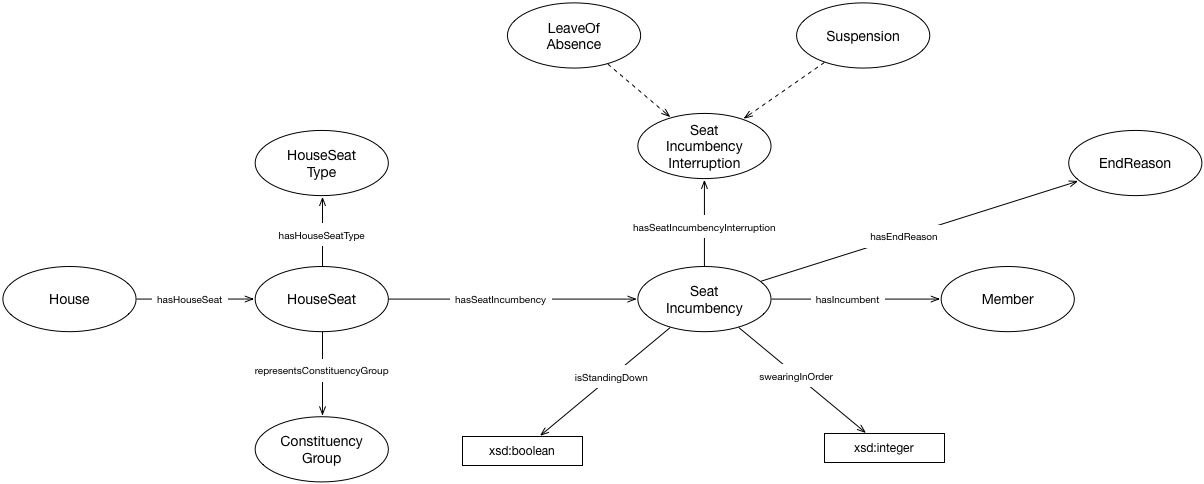
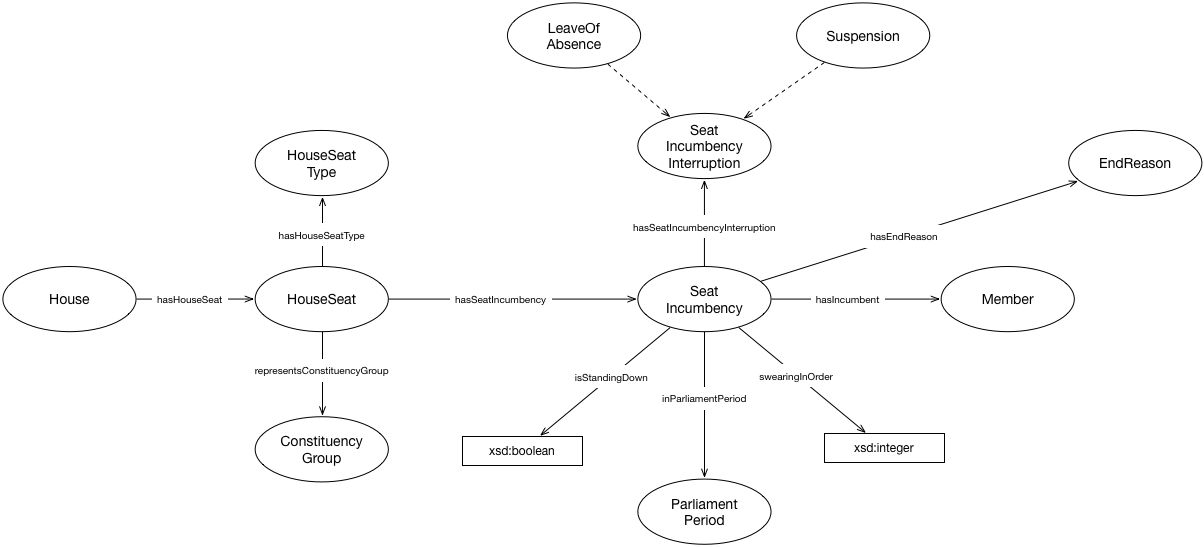
linked a seat incumbency to a parliament period

diff --git a/house-membership/house-membership-ontology.html b/house-membership/house-membership-ontology.html
@@ -21,8 +21,14 @@
 		<div id="toc"><h2>Table of Content</h2><ol><li><a href="#classes">Classes</a></li><li><a href="#objectproperties">Object Properties</a></li><li><a href="#dataproperties">Data Properties</a></li><li><a href="#namespacedeclarations">Namespace Declarations</a></li></ol></div>
 
 		<p><img src="https://raw.githubusercontent.com/ukpds/ontologies/master/house-membership/house-membership.png" width="950" /></p>
-	
-	
-	<div id="classes"><h2>Classes</h2><ul class="hlist"><li><a href="#d4e164" title="http://parliament.uk/ontologies/house-membership/ConstituencyGroup">ConstituencyGroup</a></li><li><a href="#d4e176" title="http://parliament.uk/ontologies/house-membership/EndReason">EndReason</a></li><li><a href="#d4e187" title="http://parliament.uk/ontologies/house-membership/House">House</a></li><li><a href="#d4e198" title="http://parliament.uk/ontologies/house-membership/HouseSeat">HouseSeat</a></li><li><a href="#d4e210" title="http://parliament.uk/ontologies/house-membership/HouseSeatType">HouseSeatType</a></li><li><a href="#d4e221" title="http://parliament.uk/ontologies/house-membership/LeaveOfAbsence">LeaveOfAbsence</a></li><li><a href="#d4e234" title="http://parliament.uk/ontologies/house-membership/Member">Member</a></li><li><a href="#d4e246" title="http://parliament.uk/ontologies/house-membership/SeatIncumbency">SeatIncumbency</a></li><li><a href="#d4e257" title="http://parliament.uk/ontologies/house-membership/SeatIncumbencyInterruption">SeatIncumbencyInterruption</a></li><li><a href="#d4e268" title="http://parliament.uk/ontologies/house-membership/Suspension">Suspension</a></li></ul><div id="d4e164" class="entity"><a name="http://parliament.uk/ontologies/house-membership/ConstituencyGroup"></a><h3>ConstituencyGroup<sup title="class" class="type-c">c</sup><span class="backlink"> back to <a href="#toc">ToC</a> or <a href="#classes">Class ToC</a></span></h3><p><strong>IRI:</strong> http://parliament.uk/ontologies/house-membership/ConstituencyGroup</p><div class="comment"><span class="markdown">A group of people represented by the winner of an election. Includes people other than those eligible to vote (e.g. children, prisoners).</span></div><dl class="description"><dt>is in range of</dt><dd><a href="#d4e114" title="http://parliament.uk/ontologies/house-membership/representsConstituencyGroup">representsConstituencyGroup</a><sup title="object property" class="type-op">op</sup></dd></dl></div><div id="d4e176" class="entity"><a name="http://parliament.uk/ontologies/house-membership/EndReason"></a><h3>EndReason<sup title="class" class="type-c">c</sup><span class="backlink"> back to <a href="#toc">ToC</a> or <a href="#classes">Class ToC</a></span></h3><p><strong>IRI:</strong> http://parliament.uk/ontologies/house-membership/EndReason</p><div class="comment"><span class="markdown">A reason for the ending of a seat incumbency.</span></div><dl class="description"><dt>is in range of</dt><dd><a href="#d4e22" title="http://parliament.uk/ontologies/house-membership/hasEndReason">hasEndReason</a><sup title="object property" class="type-op">op</sup></dd></dl></div><div id="d4e187" class="entity"><a name="http://parliament.uk/ontologies/house-membership/House"></a><h3>House<sup title="class" class="type-c">c</sup><span class="backlink"> back to <a href="#toc">ToC</a> or <a href="#classes">Class ToC</a></span></h3><p><strong>IRI:</strong> http://parliament.uk/ontologies/house-membership/House</p><div class="comment"><span class="markdown">A parliamentary house e.g. the House of Lords.</span></div><dl class="description"><dt>is in domain of</dt><dd><a href="#d4e38" title="http://parliament.uk/ontologies/house-membership/hasHouseSeat">hasHouseSeat</a><sup title="object property" class="type-op">op</sup></dd></dl></div><div id="d4e198" class="entity"><a name="http://parliament.uk/ontologies/house-membership/HouseSeat"></a><h3>HouseSeat<sup title="class" class="type-c">c</sup><span class="backlink"> back to <a href="#toc">ToC</a> or <a href="#classes">Class ToC</a></span></h3><p><strong>IRI:</strong> http://parliament.uk/ontologies/house-membership/HouseSeat</p><div class="comment"><span class="markdown">A seat in a house. A place reserved for a member in a house. This does not equate to a constituency. A seat might be associated with a constituency (in the House of Commons) but might be allocated to a bishop or inherited by an hereditary peer.</span></div><dl class="description"><dt>is in domain of</dt><dd><a href="#d4e53" title="http://parliament.uk/ontologies/house-membership/hasHouseSeatType">hasHouseSeatType</a><sup title="object property" class="type-op">op</sup>, <a href="#d4e84" title="http://parliament.uk/ontologies/house-membership/hasSeatIncumbency">hasSeatIncumbency</a><sup title="object property" class="type-op">op</sup>, <a href="#d4e114" title="http://parliament.uk/ontologies/house-membership/representsConstituencyGroup">representsConstituencyGroup</a><sup title="object property" class="type-op">op</sup></dd><dt>is in range of</dt><dd><a href="#d4e38" title="http://parliament.uk/ontologies/house-membership/hasHouseSeat">hasHouseSeat</a><sup title="object property" class="type-op">op</sup></dd></dl></div><div id="d4e210" class="entity"><a name="http://parliament.uk/ontologies/house-membership/HouseSeatType"></a><h3>HouseSeatType<sup title="class" class="type-c">c</sup><span class="backlink"> back to <a href="#toc">ToC</a> or <a href="#classes">Class ToC</a></span></h3><p><strong>IRI:</strong> http://parliament.uk/ontologies/house-membership/HouseSeatType</p><div class="comment"><span class="markdown">A house seat type. This includes first past the post elected in the Commons. In the Lords this includes hereditary peers, life peers, excepted hereditary peers and Lords spiritual (made up of named diocesan and long serving English diocesan bishops).</span></div><dl class="description"><dt>is in range of</dt><dd><a href="#d4e53" title="http://parliament.uk/ontologies/house-membership/hasHouseSeatType">hasHouseSeatType</a><sup title="object property" class="type-op">op</sup></dd></dl></div><div id="d4e221" class="entity"><a name="http://parliament.uk/ontologies/house-membership/LeaveOfAbsence"></a><h3>LeaveOfAbsence<sup title="class" class="type-c">c</sup><span class="backlink"> back to <a href="#toc">ToC</a> or <a href="#classes">Class ToC</a></span></h3><p><strong>IRI:</strong> http://parliament.uk/ontologies/house-membership/LeaveOfAbsence</p><div class="comment"><span class="markdown">A leave of absence. A period during which a member of the House of Lords does not attend sittings.</span></div><dl class="description"><dt>has super-classes</dt><dd><a href="#d4e257" title="http://parliament.uk/ontologies/house-membership/SeatIncumbencyInterruption">SeatIncumbencyInterruption</a><sup title="class" class="type-c">c</sup></dd></dl></div><div id="d4e234" class="entity"><a name="http://parliament.uk/ontologies/house-membership/Member"></a><h3>Member<sup title="class" class="type-c">c</sup><span class="backlink"> back to <a href="#toc">ToC</a> or <a href="#classes">Class ToC</a></span></h3><p><strong>IRI:</strong> http://parliament.uk/ontologies/house-membership/Member</p><div class="comment"><span class="markdown">A current or former member of a house.</span></div><dl class="description"><dt>is in range of</dt><dd><a href="#d4e68" title="http://parliament.uk/ontologies/house-membership/hasIncumbent">hasIncumbent</a><sup title="object property" class="type-op">op</sup></dd></dl></div><div id="d4e246" class="entity"><a name="http://parliament.uk/ontologies/house-membership/SeatIncumbency"></a><h3>SeatIncumbency<sup title="class" class="type-c">c</sup><span class="backlink"> back to <a href="#toc">ToC</a> or <a href="#classes">Class ToC</a></span></h3><p><strong>IRI:</strong> http://parliament.uk/ontologies/house-membership/SeatIncumbency</p><div class="comment"><span class="markdown">A person (member) occupying a seat in a house for a period of time.</span></div><dl class="description"><dt>is in domain of</dt><dd><a href="#d4e22" title="http://parliament.uk/ontologies/house-membership/hasEndReason">hasEndReason</a><sup title="object property" class="type-op">op</sup>, <a href="#d4e68" title="http://parliament.uk/ontologies/house-membership/hasIncumbent">hasIncumbent</a><sup title="object property" class="type-op">op</sup>, <a href="#d4e99" title="http://parliament.uk/ontologies/house-membership/hasSeatIncumbencyInterruption">hasSeatIncumbencyInterruption</a><sup title="object property" class="type-op">op</sup>, <a href="#d4e132" title="http://parliament.uk/ontologies/house-membership/isStandingDown">isStandingDown</a><sup title="data property" class="type-dp">dp</sup>, <a href="#d4e147" title="http://parliament.uk/ontologies/house-membership/swearingInOrder">swearingInOrder</a><sup title="data property" class="type-dp">dp</sup></dd><dt>is in range of</dt><dd><a href="#d4e84" title="http://parliament.uk/ontologies/house-membership/hasSeatIncumbency">hasSeatIncumbency</a><sup title="object property" class="type-op">op</sup></dd></dl></div><div id="d4e257" class="entity"><a name="http://parliament.uk/ontologies/house-membership/SeatIncumbencyInterruption"></a><h3>SeatIncumbencyInterruption<sup title="class" class="type-c">c</sup><span class="backlink"> back to <a href="#toc">ToC</a> or <a href="#classes">Class ToC</a></span></h3><p><strong>IRI:</strong> http://parliament.uk/ontologies/house-membership/SeatIncumbencyInterruption</p><div class="comment"><span class="markdown">An interruption to a seat incumbency for a limited period of time for reasons such as suspension, leave of absence etc.</span></div><dl class="description"><dt>has sub-classes</dt><dd><a href="#d4e221" title="http://parliament.uk/ontologies/house-membership/LeaveOfAbsence">LeaveOfAbsence</a><sup title="class" class="type-c">c</sup>, <a href="#d4e268" title="http://parliament.uk/ontologies/house-membership/Suspension">Suspension</a><sup title="class" class="type-c">c</sup></dd><dt>is in range of</dt><dd><a href="#d4e99" title="http://parliament.uk/ontologies/house-membership/hasSeatIncumbencyInterruption">hasSeatIncumbencyInterruption</a><sup title="object property" class="type-op">op</sup></dd></dl></div><div id="d4e268" class="entity"><a name="http://parliament.uk/ontologies/house-membership/Suspension"></a><h3>Suspension<sup title="class" class="type-c">c</sup><span class="backlink"> back to <a href="#toc">ToC</a> or <a href="#classes">Class ToC</a></span></h3><p><strong>IRI:</strong> http://parliament.uk/ontologies/house-membership/Suspension</p><div class="comment"><span class="markdown">A suspension. A short period of exclusion of a member during which a member cannot sit in a house. They remain a member in all other senses.</span></div><dl class="description"><dt>has super-classes</dt><dd><a href="#d4e257" title="http://parliament.uk/ontologies/house-membership/SeatIncumbencyInterruption">SeatIncumbencyInterruption</a><sup title="class" class="type-c">c</sup></dd></dl></div></div><div id="objectproperties"><h2>Object Properties</h2><ul class="hlist"><li><a href="#d4e22" title="http://parliament.uk/ontologies/house-membership/hasEndReason">hasEndReason</a></li><li><a href="#d4e38" title="http://parliament.uk/ontologies/house-membership/hasHouseSeat">hasHouseSeat</a></li><li><a href="#d4e53" title="http://parliament.uk/ontologies/house-membership/hasHouseSeatType">hasHouseSeatType</a></li><li><a href="#d4e68" title="http://parliament.uk/ontologies/house-membership/hasIncumbent">hasIncumbent</a></li><li><a href="#d4e84" title="http://parliament.uk/ontologies/house-membership/hasSeatIncumbency">hasSeatIncumbency</a></li><li><a href="#d4e99" title="http://parliament.uk/ontologies/house-membership/hasSeatIncumbencyInterruption">hasSeatIncumbencyInterruption</a></li><li><a href="#d4e114" title="http://parliament.uk/ontologies/house-membership/representsConstituencyGroup">representsConstituencyGroup</a></li></ul><div id="d4e22" class="entity"><a name="http://parliament.uk/ontologies/house-membership/hasEndReason"></a><h3>hasEndReason<sup title="object property" class="type-op">op</sup><span class="backlink"> back to <a href="#toc">ToC</a> or <a href="#objectproperties">Object Property ToC</a></span></h3><p><strong>IRI:</strong> http://parliament.uk/ontologies/house-membership/hasEndReason</p><div class="comment"><span class="markdown">Relates a seat incumbency to an end reason.</span></div><div class="description"><dl><dt>has domain</dt><dd><a href="#d4e246" title="http://parliament.uk/ontologies/house-membership/SeatIncumbency">SeatIncumbency</a><sup title="class" class="type-c">c</sup></dd><dt>has range</dt><dd><a href="#d4e176" title="http://parliament.uk/ontologies/house-membership/EndReason">EndReason</a><sup title="class" class="type-c">c</sup></dd></dl></div></div><div id="d4e38" class="entity"><a name="http://parliament.uk/ontologies/house-membership/hasHouseSeat"></a><h3>hasHouseSeat<sup title="object property" class="type-op">op</sup><span class="backlink"> back to <a href="#toc">ToC</a> or <a href="#objectproperties">Object Property ToC</a></span></h3><p><strong>IRI:</strong> http://parliament.uk/ontologies/house-membership/hasHouseSeat</p><div class="comment"><span class="markdown">Relates a house to its seats.</span></div><div class="description"><dl><dt>has domain</dt><dd><a href="#d4e187" title="http://parliament.uk/ontologies/house-membership/House">House</a><sup title="class" class="type-c">c</sup></dd><dt>has range</dt><dd><a href="#d4e198" title="http://parliament.uk/ontologies/house-membership/HouseSeat">HouseSeat</a><sup title="class" class="type-c">c</sup></dd></dl></div></div><div id="d4e53" class="entity"><a name="http://parliament.uk/ontologies/house-membership/hasHouseSeatType"></a><h3>hasHouseSeatType<sup title="object property" class="type-op">op</sup><span class="backlink"> back to <a href="#toc">ToC</a> or <a href="#objectproperties">Object Property ToC</a></span></h3><p><strong>IRI:</strong> http://parliament.uk/ontologies/house-membership/hasHouseSeatType</p><div class="comment"><span class="markdown">Relates a house seat to a house seat type.</span></div><div class="description"><dl><dt>has domain</dt><dd><a href="#d4e198" title="http://parliament.uk/ontologies/house-membership/HouseSeat">HouseSeat</a><sup title="class" class="type-c">c</sup></dd><dt>has range</dt><dd><a href="#d4e210" title="http://parliament.uk/ontologies/house-membership/HouseSeatType">HouseSeatType</a><sup title="class" class="type-c">c</sup></dd></dl></div></div><div id="d4e68" class="entity"><a name="http://parliament.uk/ontologies/house-membership/hasIncumbent"></a><h3>hasIncumbent<sup title="object property" class="type-op">op</sup><span class="backlink"> back to <a href="#toc">ToC</a> or <a href="#objectproperties">Object Property ToC</a></span></h3><p><strong>IRI:</strong> http://parliament.uk/ontologies/house-membership/hasIncumbent</p><div class="comment"><span class="markdown">Relates a seat incumbency to a member.</span></div><div class="description"><dl><dt>has domain</dt><dd><a href="#d4e246" title="http://parliament.uk/ontologies/house-membership/SeatIncumbency">SeatIncumbency</a><sup title="class" class="type-c">c</sup></dd><dt>has range</dt><dd><a href="#d4e234" title="http://parliament.uk/ontologies/house-membership/Member">Member</a><sup title="class" class="type-c">c</sup></dd></dl></div></div><div id="d4e84" class="entity"><a name="http://parliament.uk/ontologies/house-membership/hasSeatIncumbency"></a><h3>hasSeatIncumbency<sup title="object property" class="type-op">op</sup><span class="backlink"> back to <a href="#toc">ToC</a> or <a href="#objectproperties">Object Property ToC</a></span></h3><p><strong>IRI:</strong> http://parliament.uk/ontologies/house-membership/hasSeatIncumbency</p><div class="comment"><span class="markdown">Relates a house seat to a seat incumbency.</span></div><div class="description"><dl><dt>has domain</dt><dd><a href="#d4e198" title="http://parliament.uk/ontologies/house-membership/HouseSeat">HouseSeat</a><sup title="class" class="type-c">c</sup></dd><dt>has range</dt><dd><a href="#d4e246" title="http://parliament.uk/ontologies/house-membership/SeatIncumbency">SeatIncumbency</a><sup title="class" class="type-c">c</sup></dd></dl></div></div><div id="d4e99" class="entity"><a name="http://parliament.uk/ontologies/house-membership/hasSeatIncumbencyInterruption"></a><h3>hasSeatIncumbencyInterruption<sup title="object property" class="type-op">op</sup><span class="backlink"> back to <a href="#toc">ToC</a> or <a href="#objectproperties">Object Property ToC</a></span></h3><p><strong>IRI:</strong> http://parliament.uk/ontologies/house-membership/hasSeatIncumbencyInterruption</p><div class="comment"><span class="markdown">Relates a seat incumbency an interruption.</span></div><div class="description"><dl><dt>has domain</dt><dd><a href="#d4e246" title="http://parliament.uk/ontologies/house-membership/SeatIncumbency">SeatIncumbency</a><sup title="class" class="type-c">c</sup></dd><dt>has range</dt><dd><a href="#d4e257" title="http://parliament.uk/ontologies/house-membership/SeatIncumbencyInterruption">SeatIncumbencyInterruption</a><sup title="class" class="type-c">c</sup></dd></dl></div></div><div id="d4e114" class="entity"><a name="http://parliament.uk/ontologies/house-membership/representsConstituencyGroup"></a><h3>representsConstituencyGroup<sup title="object property" class="type-op">op</sup><span class="backlink"> back to <a href="#toc">ToC</a> or <a href="#objectproperties">Object Property ToC</a></span></h3><p><strong>IRI:</strong> http://parliament.uk/ontologies/house-membership/representsConstituencyGroup</p><div class="comment"><span class="markdown">Relates a house seat to a constituency group.</span></div><div class="description"><dl><dt>has domain</dt><dd><a href="#d4e198" title="http://parliament.uk/ontologies/house-membership/HouseSeat">HouseSeat</a><sup title="class" class="type-c">c</sup></dd><dt>has range</dt><dd><a href="#d4e164" title="http://parliament.uk/ontologies/house-membership/ConstituencyGroup">ConstituencyGroup</a><sup title="class" class="type-c">c</sup></dd></dl></div></div></div><div id="dataproperties"><h2>Data Properties</h2><ul class="hlist"><li><a href="#d4e132" title="http://parliament.uk/ontologies/house-membership/isStandingDown">isStandingDown</a></li><li><a href="#d4e147" title="http://parliament.uk/ontologies/house-membership/swearingInOrder">swearingInOrder</a></li></ul><div id="d4e132" class="entity"><a name="http://parliament.uk/ontologies/house-membership/isStandingDown"></a><h3>isStandingDown<sup title="data property" class="type-dp">dp</sup><span class="backlink"> back to <a href="#toc">ToC</a> or <a href="#dataproperties">Data Property ToC</a></span></h3><p><strong>IRI:</strong> http://parliament.uk/ontologies/house-membership/isStandingDown</p><div class="comment"><span class="markdown">Denotes that a Commons member intends to stand down at the next election.</span></div><div class="description"><dl><dt>has domain</dt><dd><a href="#d4e246" title="http://parliament.uk/ontologies/house-membership/SeatIncumbency">SeatIncumbency</a><sup title="class" class="type-c">c</sup></dd><dt>has range</dt><dd><span class="dotted" title="http://www.w3.org/2001/XMLSchema#boolean">boolean</span></dd></dl></div></div><div id="d4e147" class="entity"><a name="http://parliament.uk/ontologies/house-membership/swearingInOrder"></a><h3>swearingInOrder<sup title="data property" class="type-dp">dp</sup><span class="backlink"> back to <a href="#toc">ToC</a> or <a href="#dataproperties">Data Property ToC</a></span></h3><p><strong>IRI:</strong> http://parliament.uk/ontologies/house-membership/swearingInOrder</p><div class="comment"><span class="markdown">The order in which members take the oath (religious) or affirmation (secular) at the beginning of a new parliament or following a by-election. Swearing in order denotes the seniority of a member.</span></div><div class="description"><dl><dt>has domain</dt><dd><a href="#d4e246" title="http://parliament.uk/ontologies/house-membership/SeatIncumbency">SeatIncumbency</a><sup title="class" class="type-c">c</sup></dd><dt>has range</dt><dd><span class="dotted" title="http://www.w3.org/2001/XMLSchema#integer">integer</span></dd></dl></div></div></div><div id="namespacedeclarations"><h2>Namespace Declarations <span class="backlink"> back to <a href="#toc">ToC</a></span></h2><dl><dt><em>default namespace</em></dt><dd>http://parliament.uk/ontologies/house-membership/</dd><dt>owl</dt><dd>http://www.w3.org/2002/07/owl#</dd><dt>rdf</dt><dd>http://www.w3.org/1999/02/22-rdf-syntax-ns#</dd><dt>rdfs</dt><dd>http://www.w3.org/2000/01/rdf-schema#</dd><dt>terms</dt><dd>http://purl.org/dc/terms/</dd><dt>xsd</dt><dd>http://www.w3.org/2001/XMLSchema#</dd></dl></div><p class="endnote">This HTML document was obtained by processing the OWL ontology source code through <a href="http://www.essepuntato.it/lode">LODE</a>, <em>Live OWL Documentation Environment</em>, developed by <a href="http://www.essepuntato.it">Silvio Peroni</a>.</p></body></html>
+
+
+
+
+
+
+
+
+<div id="classes"><h2>Classes</h2><ul class="hlist"><li><a href="#d4e180" title="http://parliament.uk/ontologies/house-membership/ConstituencyGroup">ConstituencyGroup</a></li><li><a href="#d4e191" title="http://parliament.uk/ontologies/house-membership/EndReason">EndReason</a></li><li><a href="#d4e202" title="http://parliament.uk/ontologies/house-membership/House">House</a></li><li><a href="#d4e214" title="http://parliament.uk/ontologies/house-membership/HouseSeat">HouseSeat</a></li><li><a href="#d4e225" title="http://parliament.uk/ontologies/house-membership/HouseSeatType">HouseSeatType</a></li><li><a href="#d4e236" title="http://parliament.uk/ontologies/house-membership/LeaveOfAbsence">LeaveOfAbsence</a></li><li><a href="#d4e250" title="http://parliament.uk/ontologies/house-membership/Member">Member</a></li><li><a href="#d4e261" title="http://parliament.uk/ontologies/house-membership/ParliamentPeriod">ParliamentPeriod</a></li><li><a href="#d4e272" title="http://parliament.uk/ontologies/house-membership/SeatIncumbency">SeatIncumbency</a></li><li><a href="#d4e284" title="http://parliament.uk/ontologies/house-membership/SeatIncumbencyInterruption">SeatIncumbencyInterruption</a></li><li><a href="#d4e295" title="http://parliament.uk/ontologies/house-membership/Suspension">Suspension</a></li></ul><div id="d4e180" class="entity"><a name="http://parliament.uk/ontologies/house-membership/ConstituencyGroup"></a><h3>ConstituencyGroup<sup title="class" class="type-c">c</sup><span class="backlink"> back to <a href="#toc">ToC</a> or <a href="#classes">Class ToC</a></span></h3><p><strong>IRI:</strong> http://parliament.uk/ontologies/house-membership/ConstituencyGroup</p><div class="comment"><span class="markdown">A group of people represented by the winner of an election. Includes people other than those eligible to vote (e.g. children, prisoners).</span></div><dl class="description"><dt>is in range of</dt><dd><a href="#d4e130" title="http://parliament.uk/ontologies/house-membership/representsConstituencyGroup">representsConstituencyGroup</a><sup title="object property" class="type-op">op</sup></dd></dl></div><div id="d4e191" class="entity"><a name="http://parliament.uk/ontologies/house-membership/EndReason"></a><h3>EndReason<sup title="class" class="type-c">c</sup><span class="backlink"> back to <a href="#toc">ToC</a> or <a href="#classes">Class ToC</a></span></h3><p><strong>IRI:</strong> http://parliament.uk/ontologies/house-membership/EndReason</p><div class="comment"><span class="markdown">A reason for the ending of a seat incumbency.</span></div><dl class="description"><dt>is in range of</dt><dd><a href="#d4e22" title="http://parliament.uk/ontologies/house-membership/hasEndReason">hasEndReason</a><sup title="object property" class="type-op">op</sup></dd></dl></div><div id="d4e202" class="entity"><a name="http://parliament.uk/ontologies/house-membership/House"></a><h3>House<sup title="class" class="type-c">c</sup><span class="backlink"> back to <a href="#toc">ToC</a> or <a href="#classes">Class ToC</a></span></h3><p><strong>IRI:</strong> http://parliament.uk/ontologies/house-membership/House</p><div class="comment"><span class="markdown">A parliamentary house e.g. the House of Lords.</span></div><dl class="description"><dt>is in domain of</dt><dd><a href="#d4e38" title="http://parliament.uk/ontologies/house-membership/hasHouseSeat">hasHouseSeat</a><sup title="object property" class="type-op">op</sup></dd></dl></div><div id="d4e214" class="entity"><a name="http://parliament.uk/ontologies/house-membership/HouseSeat"></a><h3>HouseSeat<sup title="class" class="type-c">c</sup><span class="backlink"> back to <a href="#toc">ToC</a> or <a href="#classes">Class ToC</a></span></h3><p><strong>IRI:</strong> http://parliament.uk/ontologies/house-membership/HouseSeat</p><div class="comment"><span class="markdown">A seat in a house. A place reserved for a member in a house. This does not equate to a constituency. A seat might be associated with a constituency (in the House of Commons) but might be allocated to a bishop or inherited by an hereditary peer.</span></div><dl class="description"><dt>is in domain of</dt><dd><a href="#d4e53" title="http://parliament.uk/ontologies/house-membership/hasHouseSeatType">hasHouseSeatType</a><sup title="object property" class="type-op">op</sup>, <a href="#d4e84" title="http://parliament.uk/ontologies/house-membership/hasSeatIncumbency">hasSeatIncumbency</a><sup title="object property" class="type-op">op</sup>, <a href="#d4e130" title="http://parliament.uk/ontologies/house-membership/representsConstituencyGroup">representsConstituencyGroup</a><sup title="object property" class="type-op">op</sup></dd><dt>is in range of</dt><dd><a href="#d4e38" title="http://parliament.uk/ontologies/house-membership/hasHouseSeat">hasHouseSeat</a><sup title="object property" class="type-op">op</sup></dd></dl></div><div id="d4e225" class="entity"><a name="http://parliament.uk/ontologies/house-membership/HouseSeatType"></a><h3>HouseSeatType<sup title="class" class="type-c">c</sup><span class="backlink"> back to <a href="#toc">ToC</a> or <a href="#classes">Class ToC</a></span></h3><p><strong>IRI:</strong> http://parliament.uk/ontologies/house-membership/HouseSeatType</p><div class="comment"><span class="markdown">A house seat type. This includes first past the post elected in the Commons. In the Lords this includes hereditary peers, life peers, excepted hereditary peers and Lords spiritual (made up of named diocesan and long serving English diocesan bishops).</span></div><dl class="description"><dt>is in range of</dt><dd><a href="#d4e53" title="http://parliament.uk/ontologies/house-membership/hasHouseSeatType">hasHouseSeatType</a><sup title="object property" class="type-op">op</sup></dd></dl></div><div id="d4e236" class="entity"><a name="http://parliament.uk/ontologies/house-membership/LeaveOfAbsence"></a><h3>LeaveOfAbsence<sup title="class" class="type-c">c</sup><span class="backlink"> back to <a href="#toc">ToC</a> or <a href="#classes">Class ToC</a></span></h3><p><strong>IRI:</strong> http://parliament.uk/ontologies/house-membership/LeaveOfAbsence</p><div class="comment"><span class="markdown">A leave of absence. A period during which a member of the House of Lords does not attend sittings.</span></div><dl class="description"><dt>has super-classes</dt><dd><a href="#d4e284" title="http://parliament.uk/ontologies/house-membership/SeatIncumbencyInterruption">SeatIncumbencyInterruption</a><sup title="class" class="type-c">c</sup></dd></dl></div><div id="d4e250" class="entity"><a name="http://parliament.uk/ontologies/house-membership/Member"></a><h3>Member<sup title="class" class="type-c">c</sup><span class="backlink"> back to <a href="#toc">ToC</a> or <a href="#classes">Class ToC</a></span></h3><p><strong>IRI:</strong> http://parliament.uk/ontologies/house-membership/Member</p><div class="comment"><span class="markdown">A current or former member of a house.</span></div><dl class="description"><dt>is in range of</dt><dd><a href="#d4e68" title="http://parliament.uk/ontologies/house-membership/hasIncumbent">hasIncumbent</a><sup title="object property" class="type-op">op</sup></dd></dl></div><div id="d4e261" class="entity"><a name="http://parliament.uk/ontologies/house-membership/ParliamentPeriod"></a><h3>ParliamentPeriod<sup title="class" class="type-c">c</sup><span class="backlink"> back to <a href="#toc">ToC</a> or <a href="#classes">Class ToC</a></span></h3><p><strong>IRI:</strong> http://parliament.uk/ontologies/house-membership/ParliamentPeriod</p><div class="comment"><span class="markdown">The period of Parliamentary time between the first state opening following a general election and dissolution.</span></div><dl class="description"><dt>is in range of</dt><dd><a href="#d4e114" title="http://parliament.uk/ontologies/house-membership/inParliamentPeriod">inParliamentPeriod</a><sup title="object property" class="type-op">op</sup></dd></dl></div><div id="d4e272" class="entity"><a name="http://parliament.uk/ontologies/house-membership/SeatIncumbency"></a><h3>SeatIncumbency<sup title="class" class="type-c">c</sup><span class="backlink"> back to <a href="#toc">ToC</a> or <a href="#classes">Class ToC</a></span></h3><p><strong>IRI:</strong> http://parliament.uk/ontologies/house-membership/SeatIncumbency</p><div class="comment"><span class="markdown">A person (member) occupying a seat in a house for a period of time.</span></div><dl class="description"><dt>is in domain of</dt><dd><a href="#d4e22" title="http://parliament.uk/ontologies/house-membership/hasEndReason">hasEndReason</a><sup title="object property" class="type-op">op</sup>, <a href="#d4e68" title="http://parliament.uk/ontologies/house-membership/hasIncumbent">hasIncumbent</a><sup title="object property" class="type-op">op</sup>, <a href="#d4e99" title="http://parliament.uk/ontologies/house-membership/hasSeatIncumbencyInterruption">hasSeatIncumbencyInterruption</a><sup title="object property" class="type-op">op</sup>, <a href="#d4e114" title="http://parliament.uk/ontologies/house-membership/inParliamentPeriod">inParliamentPeriod</a><sup title="object property" class="type-op">op</sup>, <a href="#d4e147" title="http://parliament.uk/ontologies/house-membership/isStandingDown">isStandingDown</a><sup title="data property" class="type-dp">dp</sup>, <a href="#d4e162" title="http://parliament.uk/ontologies/house-membership/swearingInOrder">swearingInOrder</a><sup title="data property" class="type-dp">dp</sup></dd><dt>is in range of</dt><dd><a href="#d4e84" title="http://parliament.uk/ontologies/house-membership/hasSeatIncumbency">hasSeatIncumbency</a><sup title="object property" class="type-op">op</sup></dd></dl></div><div id="d4e284" class="entity"><a name="http://parliament.uk/ontologies/house-membership/SeatIncumbencyInterruption"></a><h3>SeatIncumbencyInterruption<sup title="class" class="type-c">c</sup><span class="backlink"> back to <a href="#toc">ToC</a> or <a href="#classes">Class ToC</a></span></h3><p><strong>IRI:</strong> http://parliament.uk/ontologies/house-membership/SeatIncumbencyInterruption</p><div class="comment"><span class="markdown">An interruption to a seat incumbency for a limited period of time for reasons such as suspension, leave of absence etc.</span></div><dl class="description"><dt>has sub-classes</dt><dd><a href="#d4e236" title="http://parliament.uk/ontologies/house-membership/LeaveOfAbsence">LeaveOfAbsence</a><sup title="class" class="type-c">c</sup>, <a href="#d4e295" title="http://parliament.uk/ontologies/house-membership/Suspension">Suspension</a><sup title="class" class="type-c">c</sup></dd><dt>is in range of</dt><dd><a href="#d4e99" title="http://parliament.uk/ontologies/house-membership/hasSeatIncumbencyInterruption">hasSeatIncumbencyInterruption</a><sup title="object property" class="type-op">op</sup></dd></dl></div><div id="d4e295" class="entity"><a name="http://parliament.uk/ontologies/house-membership/Suspension"></a><h3>Suspension<sup title="class" class="type-c">c</sup><span class="backlink"> back to <a href="#toc">ToC</a> or <a href="#classes">Class ToC</a></span></h3><p><strong>IRI:</strong> http://parliament.uk/ontologies/house-membership/Suspension</p><div class="comment"><span class="markdown">A suspension. A short period of exclusion of a member during which a member cannot sit in a house. They remain a member in all other senses.</span></div><dl class="description"><dt>has super-classes</dt><dd><a href="#d4e284" title="http://parliament.uk/ontologies/house-membership/SeatIncumbencyInterruption">SeatIncumbencyInterruption</a><sup title="class" class="type-c">c</sup></dd></dl></div></div><div id="objectproperties"><h2>Object Properties</h2><ul class="hlist"><li><a href="#d4e22" title="http://parliament.uk/ontologies/house-membership/hasEndReason">hasEndReason</a></li><li><a href="#d4e38" title="http://parliament.uk/ontologies/house-membership/hasHouseSeat">hasHouseSeat</a></li><li><a href="#d4e53" title="http://parliament.uk/ontologies/house-membership/hasHouseSeatType">hasHouseSeatType</a></li><li><a href="#d4e68" title="http://parliament.uk/ontologies/house-membership/hasIncumbent">hasIncumbent</a></li><li><a href="#d4e84" title="http://parliament.uk/ontologies/house-membership/hasSeatIncumbency">hasSeatIncumbency</a></li><li><a href="#d4e99" title="http://parliament.uk/ontologies/house-membership/hasSeatIncumbencyInterruption">hasSeatIncumbencyInterruption</a></li><li><a href="#d4e114" title="http://parliament.uk/ontologies/house-membership/inParliamentPeriod">inParliamentPeriod</a></li><li><a href="#d4e130" title="http://parliament.uk/ontologies/house-membership/representsConstituencyGroup">representsConstituencyGroup</a></li></ul><div id="d4e22" class="entity"><a name="http://parliament.uk/ontologies/house-membership/hasEndReason"></a><h3>hasEndReason<sup title="object property" class="type-op">op</sup><span class="backlink"> back to <a href="#toc">ToC</a> or <a href="#objectproperties">Object Property ToC</a></span></h3><p><strong>IRI:</strong> http://parliament.uk/ontologies/house-membership/hasEndReason</p><div class="comment"><span class="markdown">Relates a seat incumbency to an end reason.</span></div><div class="description"><dl><dt>has domain</dt><dd><a href="#d4e272" title="http://parliament.uk/ontologies/house-membership/SeatIncumbency">SeatIncumbency</a><sup title="class" class="type-c">c</sup></dd><dt>has range</dt><dd><a href="#d4e191" title="http://parliament.uk/ontologies/house-membership/EndReason">EndReason</a><sup title="class" class="type-c">c</sup></dd></dl></div></div><div id="d4e38" class="entity"><a name="http://parliament.uk/ontologies/house-membership/hasHouseSeat"></a><h3>hasHouseSeat<sup title="object property" class="type-op">op</sup><span class="backlink"> back to <a href="#toc">ToC</a> or <a href="#objectproperties">Object Property ToC</a></span></h3><p><strong>IRI:</strong> http://parliament.uk/ontologies/house-membership/hasHouseSeat</p><div class="comment"><span class="markdown">Relates a house to its seats.</span></div><div class="description"><dl><dt>has domain</dt><dd><a href="#d4e202" title="http://parliament.uk/ontologies/house-membership/House">House</a><sup title="class" class="type-c">c</sup></dd><dt>has range</dt><dd><a href="#d4e214" title="http://parliament.uk/ontologies/house-membership/HouseSeat">HouseSeat</a><sup title="class" class="type-c">c</sup></dd></dl></div></div><div id="d4e53" class="entity"><a name="http://parliament.uk/ontologies/house-membership/hasHouseSeatType"></a><h3>hasHouseSeatType<sup title="object property" class="type-op">op</sup><span class="backlink"> back to <a href="#toc">ToC</a> or <a href="#objectproperties">Object Property ToC</a></span></h3><p><strong>IRI:</strong> http://parliament.uk/ontologies/house-membership/hasHouseSeatType</p><div class="comment"><span class="markdown">Relates a house seat to a house seat type.</span></div><div class="description"><dl><dt>has domain</dt><dd><a href="#d4e214" title="http://parliament.uk/ontologies/house-membership/HouseSeat">HouseSeat</a><sup title="class" class="type-c">c</sup></dd><dt>has range</dt><dd><a href="#d4e225" title="http://parliament.uk/ontologies/house-membership/HouseSeatType">HouseSeatType</a><sup title="class" class="type-c">c</sup></dd></dl></div></div><div id="d4e68" class="entity"><a name="http://parliament.uk/ontologies/house-membership/hasIncumbent"></a><h3>hasIncumbent<sup title="object property" class="type-op">op</sup><span class="backlink"> back to <a href="#toc">ToC</a> or <a href="#objectproperties">Object Property ToC</a></span></h3><p><strong>IRI:</strong> http://parliament.uk/ontologies/house-membership/hasIncumbent</p><div class="comment"><span class="markdown">Relates a seat incumbency to a member.</span></div><div class="description"><dl><dt>has domain</dt><dd><a href="#d4e272" title="http://parliament.uk/ontologies/house-membership/SeatIncumbency">SeatIncumbency</a><sup title="class" class="type-c">c</sup></dd><dt>has range</dt><dd><a href="#d4e250" title="http://parliament.uk/ontologies/house-membership/Member">Member</a><sup title="class" class="type-c">c</sup></dd></dl></div></div><div id="d4e84" class="entity"><a name="http://parliament.uk/ontologies/house-membership/hasSeatIncumbency"></a><h3>hasSeatIncumbency<sup title="object property" class="type-op">op</sup><span class="backlink"> back to <a href="#toc">ToC</a> or <a href="#objectproperties">Object Property ToC</a></span></h3><p><strong>IRI:</strong> http://parliament.uk/ontologies/house-membership/hasSeatIncumbency</p><div class="comment"><span class="markdown">Relates a house seat to a seat incumbency.</span></div><div class="description"><dl><dt>has domain</dt><dd><a href="#d4e214" title="http://parliament.uk/ontologies/house-membership/HouseSeat">HouseSeat</a><sup title="class" class="type-c">c</sup></dd><dt>has range</dt><dd><a href="#d4e272" title="http://parliament.uk/ontologies/house-membership/SeatIncumbency">SeatIncumbency</a><sup title="class" class="type-c">c</sup></dd></dl></div></div><div id="d4e99" class="entity"><a name="http://parliament.uk/ontologies/house-membership/hasSeatIncumbencyInterruption"></a><h3>hasSeatIncumbencyInterruption<sup title="object property" class="type-op">op</sup><span class="backlink"> back to <a href="#toc">ToC</a> or <a href="#objectproperties">Object Property ToC</a></span></h3><p><strong>IRI:</strong> http://parliament.uk/ontologies/house-membership/hasSeatIncumbencyInterruption</p><div class="comment"><span class="markdown">Relates a seat incumbency an interruption.</span></div><div class="description"><dl><dt>has domain</dt><dd><a href="#d4e272" title="http://parliament.uk/ontologies/house-membership/SeatIncumbency">SeatIncumbency</a><sup title="class" class="type-c">c</sup></dd><dt>has range</dt><dd><a href="#d4e284" title="http://parliament.uk/ontologies/house-membership/SeatIncumbencyInterruption">SeatIncumbencyInterruption</a><sup title="class" class="type-c">c</sup></dd></dl></div></div><div id="d4e114" class="entity"><a name="http://parliament.uk/ontologies/house-membership/inParliamentPeriod"></a><h3>inParliamentPeriod<sup title="object property" class="type-op">op</sup><span class="backlink"> back to <a href="#toc">ToC</a> or <a href="#objectproperties">Object Property ToC</a></span></h3><p><strong>IRI:</strong> http://parliament.uk/ontologies/house-membership/inParliamentPeriod</p><div class="comment"><span class="markdown">Relates a seat incumbency to a Parliament period.</span></div><div class="description"><dl><dt>has domain</dt><dd><a href="#d4e272" title="http://parliament.uk/ontologies/house-membership/SeatIncumbency">SeatIncumbency</a><sup title="class" class="type-c">c</sup></dd><dt>has range</dt><dd><a href="#d4e261" title="http://parliament.uk/ontologies/house-membership/ParliamentPeriod">ParliamentPeriod</a><sup title="class" class="type-c">c</sup></dd></dl></div></div><div id="d4e130" class="entity"><a name="http://parliament.uk/ontologies/house-membership/representsConstituencyGroup"></a><h3>representsConstituencyGroup<sup title="object property" class="type-op">op</sup><span class="backlink"> back to <a href="#toc">ToC</a> or <a href="#objectproperties">Object Property ToC</a></span></h3><p><strong>IRI:</strong> http://parliament.uk/ontologies/house-membership/representsConstituencyGroup</p><div class="comment"><span class="markdown">Relates a house seat to a constituency group.</span></div><div class="description"><dl><dt>has domain</dt><dd><a href="#d4e214" title="http://parliament.uk/ontologies/house-membership/HouseSeat">HouseSeat</a><sup title="class" class="type-c">c</sup></dd><dt>has range</dt><dd><a href="#d4e180" title="http://parliament.uk/ontologies/house-membership/ConstituencyGroup">ConstituencyGroup</a><sup title="class" class="type-c">c</sup></dd></dl></div></div></div><div id="dataproperties"><h2>Data Properties</h2><ul class="hlist"><li><a href="#d4e147" title="http://parliament.uk/ontologies/house-membership/isStandingDown">isStandingDown</a></li><li><a href="#d4e162" title="http://parliament.uk/ontologies/house-membership/swearingInOrder">swearingInOrder</a></li></ul><div id="d4e147" class="entity"><a name="http://parliament.uk/ontologies/house-membership/isStandingDown"></a><h3>isStandingDown<sup title="data property" class="type-dp">dp</sup><span class="backlink"> back to <a href="#toc">ToC</a> or <a href="#dataproperties">Data Property ToC</a></span></h3><p><strong>IRI:</strong> http://parliament.uk/ontologies/house-membership/isStandingDown</p><div class="comment"><span class="markdown">Denotes that a Commons member intends to stand down at the next election.</span></div><div class="description"><dl><dt>has domain</dt><dd><a href="#d4e272" title="http://parliament.uk/ontologies/house-membership/SeatIncumbency">SeatIncumbency</a><sup title="class" class="type-c">c</sup></dd><dt>has range</dt><dd><span class="dotted" title="http://www.w3.org/2001/XMLSchema#boolean">boolean</span></dd></dl></div></div><div id="d4e162" class="entity"><a name="http://parliament.uk/ontologies/house-membership/swearingInOrder"></a><h3>swearingInOrder<sup title="data property" class="type-dp">dp</sup><span class="backlink"> back to <a href="#toc">ToC</a> or <a href="#dataproperties">Data Property ToC</a></span></h3><p><strong>IRI:</strong> http://parliament.uk/ontologies/house-membership/swearingInOrder</p><div class="comment"><span class="markdown">The order in which members take the oath (religious) or affirmation (secular) at the beginning of a new parliament or following a by-election. Swearing in order denotes the seniority of a member.</span></div><div class="description"><dl><dt>has domain</dt><dd><a href="#d4e272" title="http://parliament.uk/ontologies/house-membership/SeatIncumbency">SeatIncumbency</a><sup title="class" class="type-c">c</sup></dd><dt>has range</dt><dd><span class="dotted" title="http://www.w3.org/2001/XMLSchema#integer">integer</span></dd></dl></div></div></div><div id="namespacedeclarations"><h2>Namespace Declarations <span class="backlink"> back to <a href="#toc">ToC</a></span></h2><dl><dt><em>default namespace</em></dt><dd>http://parliament.uk/ontologies/house-membership/</dd><dt>owl</dt><dd>http://www.w3.org/2002/07/owl#</dd><dt>rdf</dt><dd>http://www.w3.org/1999/02/22-rdf-syntax-ns#</dd><dt>rdfs</dt><dd>http://www.w3.org/2000/01/rdf-schema#</dd><dt>terms</dt><dd>http://purl.org/dc/terms/</dd><dt>xsd</dt><dd>http://www.w3.org/2001/XMLSchema#</dd></dl></div><p class="endnote">This HTML document was obtained by processing the OWL ontology source code through <a href="http://www.essepuntato.it/lode">LODE</a>, <em>Live OWL Documentation Environment</em>, developed by <a href="http://www.essepuntato.it">Silvio Peroni</a>.</p></body></html>
 
 
